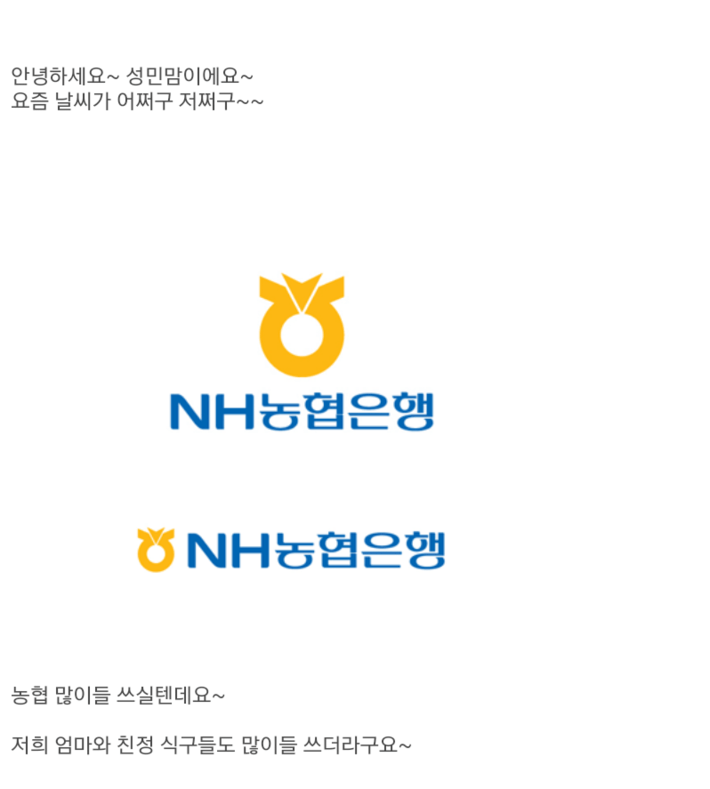
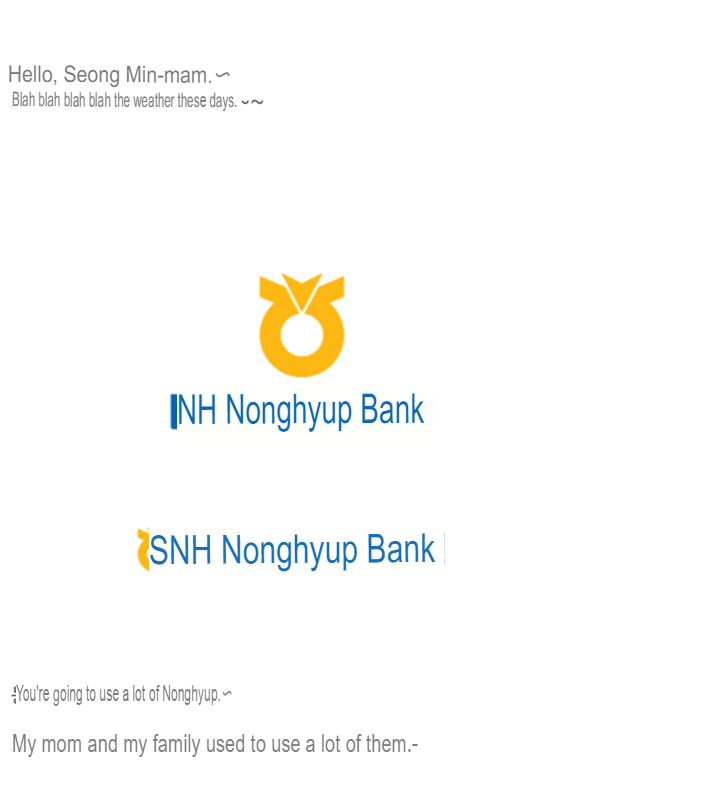
translate images from kr to eng

diff --git a/BE/be03/ex00.md b/BE/be03/ex00.md
@@ -9,7 +9,7 @@
 
 Voila! Congratulations on your admission. You got a job as a back-end engineer for a good, good, good, small company. On the first day of work, he was given a new project.
 "Before we start, why don't we start with our simple social media? What is it? It's a hip style that kids like these days. Is it Redon or Reddit? It's a foreign one, like that."
-In a word from the president, the project of the team you entered became a SNS service similar to [Reddit] (https://www.reddit.com/r/javascript/).
+In a word from the president, the project of the team you entered became a SNS service similar to [Reddit](https://www.reddit.com/r/javascript/).
 
 "For now, non-members and guests will be blocked from using the service, so I think you should create an account-related API first." I have also received a request.
 Whether it's Neckarakuba or FAANG, login is a feature that exists everywhere. Shall we start?
@@ -41,7 +41,7 @@ Whether it's Neckarakuba or FAANG, login is a feature that exists everywhere. Sh
 
 Backend engineers don't work alone. Instead, they collaborate with others, including front-end engineers, to build services.
 You can't communicate with them by looking at the code one by one. Instead, a well-organized document will take over.
-Create a simple document about the api you wrote. If it is difficult to frame the entire document, you can use a service such as [gitbook] (https://www.gitbook.com).
+Create a simple document about the api you wrote. If it is difficult to frame the entire document, you can use a service such as [gitbook](https://www.gitbook.com).
 
 - Write a simple api document about the request/response details of the apis you created. This is Mandatory.
 - The following fields must be specified in the api document to be written.

diff --git a/Todo.md b/Todo.md
@@ -50,6 +50,6 @@
   - [x] Check translation issues and formatting syntax issues in *.md file.
 - BE03 : 
   - [x] Check translation issues and formatting syntax issues in *.md file.
-  - [ ] Translate images in the README.md
+  - [x] Translate images in the README.md
 
 
